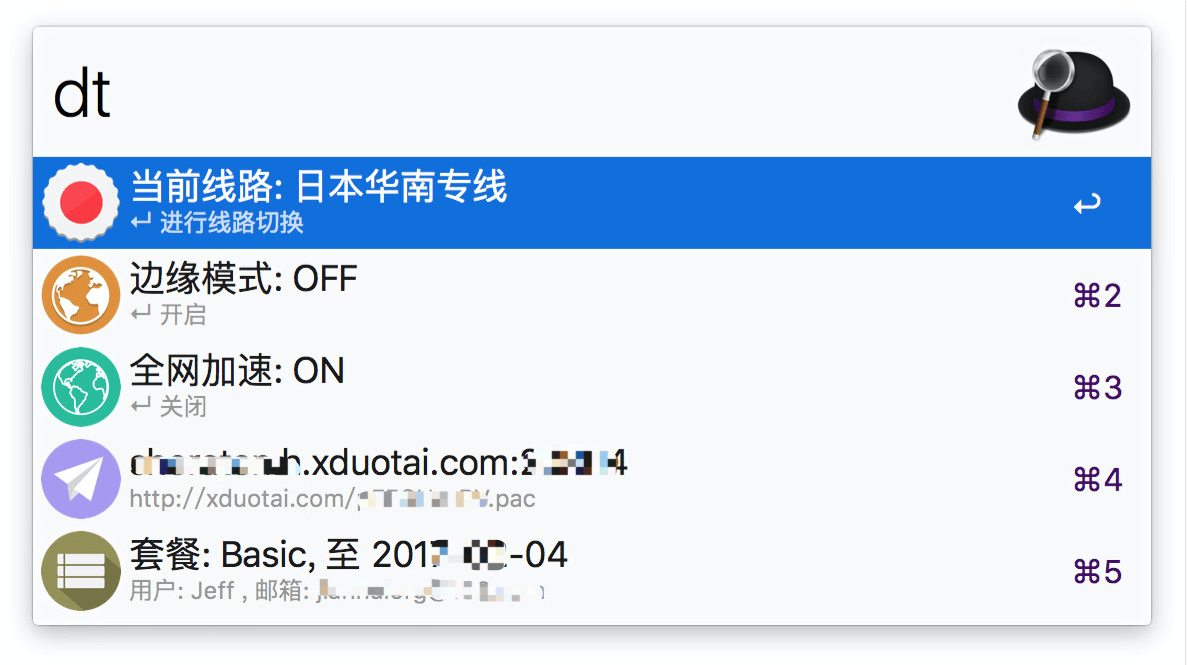
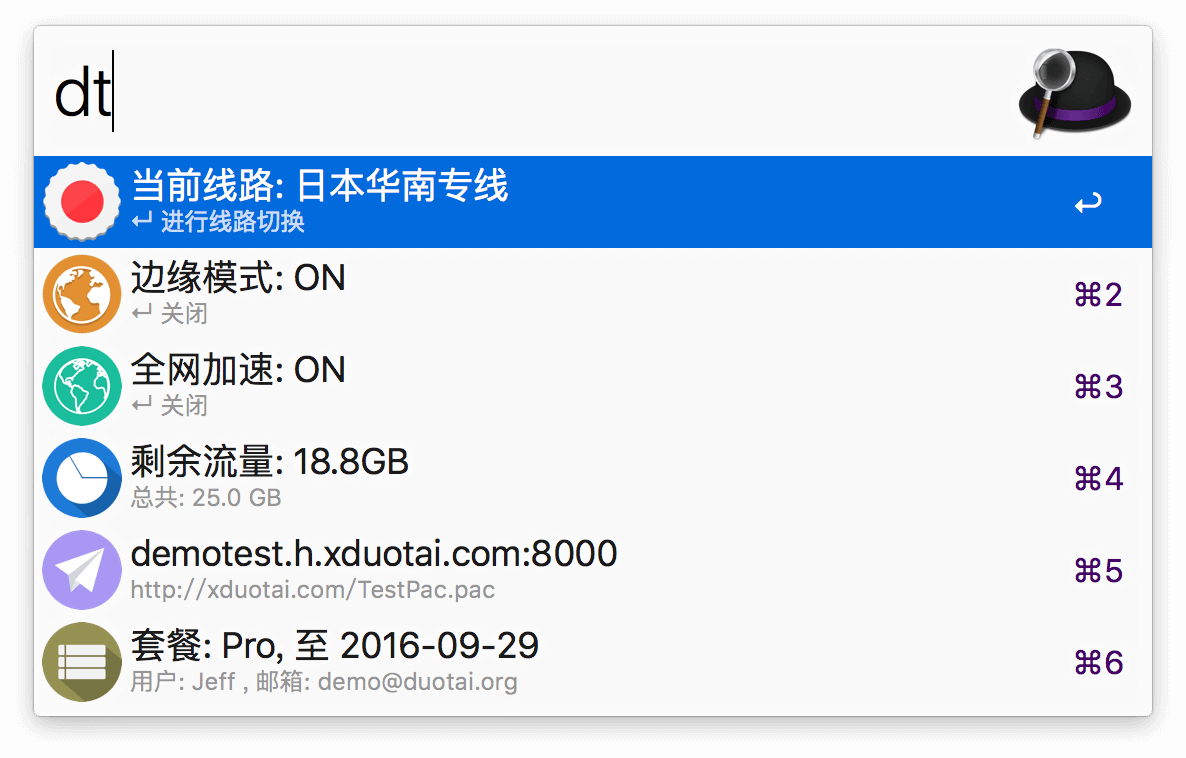
add view for traffic.

Changed region(s): [[0.0, 0.0, 1.0, 1.0], [0.9047, 0.6917, 0.9671, 0.782], [0.9047, 0.8421, 0.9671, 0.9023]]

diff --git a/main.py b/main.py
@@ -98,6 +98,10 @@ def get_main_info(cookies):
     readable_time = date_array.strftime("%Y-%m-%d")
     # print readable_time
 
+    # 流量
+    usage_traffic = text_json['package']['usage'][0]
+    amount_traffic = text_json['package']['usage'][1]
+
     # 组合展示信息 part1
     item_title = u'当前线路: ' + current_line_mode_name
     item_icon = 'regions/icon-' + common.region_name(current_line_mode[0:2]) + '.png'
@@ -131,6 +135,20 @@ def get_main_info(cookies):
                 valid=True,
                 icon=item_icon_4)
 
+    # 组合展示信息 part6
+    item_title_6 = u'剩余流量: ' + common.convert_size(amount_traffic - usage_traffic)
+    item_sub_title_6 = u'总共: %s' % common.convert_size(amount_traffic)
+    item_sub_tip_6 = u'已用/剩余: %s/%s' % (common.convert_size(usage_traffic), common.convert_size(amount_traffic))
+    wf.add_item(item_title_6,
+                item_sub_title_6,
+                modifier_subtitles={
+                    u'fn': item_sub_tip_6,
+                    u'ctrl': item_sub_tip_6,
+                    u'alt': item_sub_tip_6,
+                    u'cmd': item_sub_tip_6,
+                },
+                valid=False,
+                icon=u'icons/icon-chart.png')
 
     # 组合展示信息 part2
     item_title_2 =  current_hostname + ':' + str(current_port)
@@ -148,7 +166,6 @@ def get_main_info(cookies):
                 valid=True,
                 icon=u'icons/icon-fly.png',
                 copytext=item_sub_title_2)
-
 
     # 组合展示信息 part3
     item_title_3 = u'套餐: ' + display_name + u', 至 ' + readable_time

diff --git a/common.py b/common.py
@@ -14,6 +14,7 @@ import sys
 import requests
 import pickle
 import subprocess
+import math
 
 from workflow import Workflow, PasswordNotFound
 
@@ -33,6 +34,18 @@ dt_headers = {
     }
 
 dt_file_name = wf.datafile('cookie.txt')
+
+'''
+转换容量单位,size 为B 基本单位
+'''
+def convert_size(size):
+    if (size == 0):
+        return '0B'
+    size_name = ("B", "KB", "MB", "GB", "TB", "PB", "EB", "ZB", "YB")
+    i = int(math.floor(math.log(size, 1024)))
+    p = math.pow(1024, i)
+    s = round(size / p, 2)
+    return '%s %s' % (s, size_name[i])
 
 '''
 转化为文字说明 line -> name

diff --git a/README.md b/README.md
@@ -26,7 +26,7 @@
 
 ## 使用方法
 
-- 下载安装，通过关键词`dt`激活使用（截图隐藏部分敏感内容）：
+- 下载安装，通过关键词`dt`激活使用（截图中数据为模拟数据）：
 
 ![核心界面](./screenshot/1.png)
 
@@ -120,13 +120,17 @@
 
 - 一个[Apple Account Switcher](http://www.packal.org/workflow/apple-account-switcher) Workflow 带来的灵感
 
-- 这个设计师设计的[国旗图标](https://www.iconfinder.com/iconsets/world-cup-2014-cogged-wheel-style)
+- 这些设计师设计的图标：[一](https://www.iconfinder.com/iconsets/world-cup-2014-cogged-wheel-style)，[二](http://www.iconarchive.com/show/100-flat-icons-by-graphicloads.2.html)
 
 ## 意见反馈
 
 如果有意见反馈或者功能建议，欢迎创建 Issue 或发送 Pull Request，感谢你的支持和贡献。
 
 ## 附：更新历史
+
+### v1.2.2 - 2016.08.30
+
+- 增加：流量信息的展示
 
 ### v1.2.1 - 2016.08.29
 
